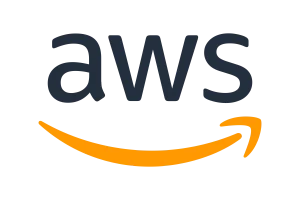
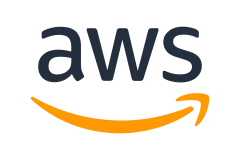
update sponsors

diff --git a/README.md b/README.md
@@ -144,7 +144,7 @@ npm run build:linux
 
 ## Gold Sponsors
 
-![Preview image](resources/aws.webp)
+![Preview image](resources/aws.webp) ![Preview image](resources/aliyun.webp)
 
 ## Contributors
 

diff --git a/README_ja.md b/README_ja.md
@@ -144,7 +144,7 @@ npm run build:linux
 
 ## Gold Sponsors
 
-![Preview image](resources/aws.webp)
+![Preview image](resources/aws.webp) ![Preview image](resources/aliyun.webp)
 
 ## Contributors
 

diff --git a/README_zh.md b/README_zh.md
@@ -156,7 +156,7 @@ npm run build:linux
 
 ## Gold Sponsors
 
-![Preview image](resources/aws.webp)
+![Preview image](resources/aws.webp) ![Preview image](resources/aliyun.webp)
 
 ## Contributors
 
